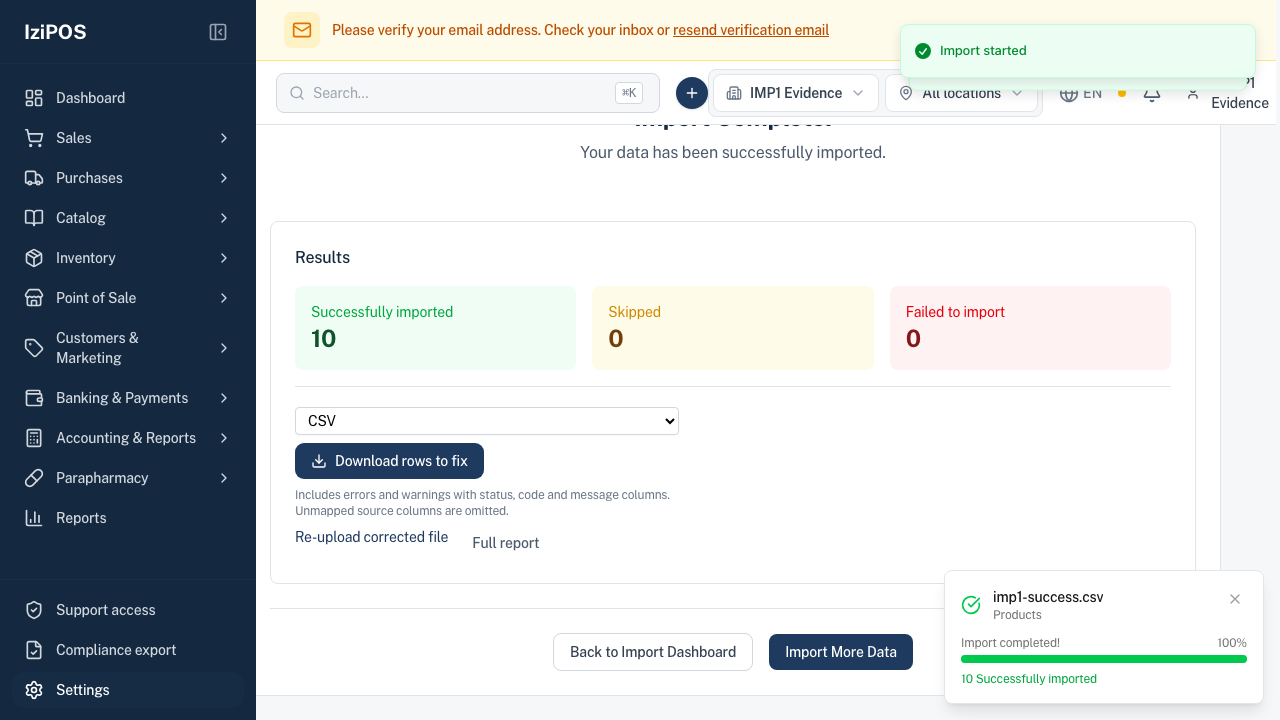
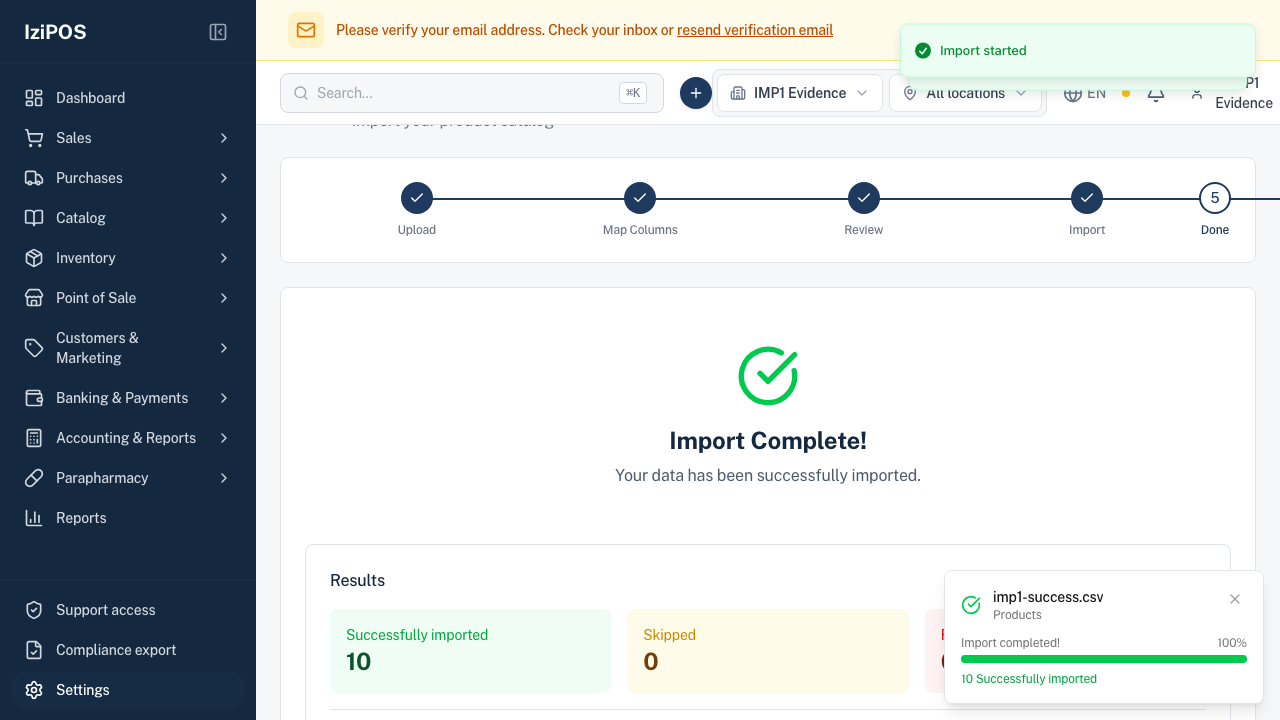
Phase 9.1.19: Refresh the browser evidence for the full six-scenario run
The completion step's rows-to-fix assertion was unconditional, so M4's gating
(a clean import hides the control instead of shipping a guaranteed 404) failed
scenario 1 on the first re-run. The scenario now asserts the right thing in
both directions: present for the partial fixtures, absent for the clean ones.

Full run, all six scenarios green on the lane's private harness (API :8012,
Vite :5176, queue worker, PG 5433 / Redis 6380, fresh tenant). The re-run
scenario's own evidence records the point of M9: attempts 1 and 2 both read
"4 imported / 0 skipped / 0 failed / 4 total" on distinct jobs.

diff --git a/apps/web/e2e/imports/imp1-history-export.spec.ts b/apps/web/e2e/imports/imp1-history-export.spec.ts
@@ -52,9 +52,17 @@ for (const name of ['imp1-success.csv', 'imp1-partial.csv', 'imp1-partial-async.
     await test.step(name, async () => {
       await runImportWizard(page, name.includes('suppliers') ? 'parties' : 'products', resolve(fixtures, name))
       await page.screenshot({ path: resolve(evidence, `${name}-completion.png`), fullPage: true })
-      await page.getByRole('button', { name: 'Download rows to fix' }).scrollIntoViewIfNeeded()
+      const completionRowsToFix = page.getByRole('button', { name: 'Download rows to fix' })
+      if (name.includes('partial')) {
+        await completionRowsToFix.scrollIntoViewIfNeeded()
+        expect.soft(await completionRowsToFix.count(), `${name}: completion rows-to-fix action`).toBeGreaterThan(0)
+      } else {
+        // M4: an import with nothing to fix hides the control instead of shipping
+        // it dead — ImportRowExportService::generate() returns null for it, so the
+        // endpoint is a guaranteed 404.
+        await expect(completionRowsToFix).toHaveCount(0)
+      }
       await page.screenshot({ path: resolve(evidence, `${name}-completion-actions.png`), fullPage: true })
-      if (name.includes('partial')) expect.soft(await page.getByRole('button', { name: /download rows to fix/i }).count(), `${name}: completion rows-to-fix action`).toBeGreaterThan(0)
       await page.goto('/settings/import/history')
       await page.screenshot({ path: resolve(evidence, `${name}-history-loading.png`), fullPage: true })
       const row = page.getByRole('row').filter({ hasText: name }).first()
